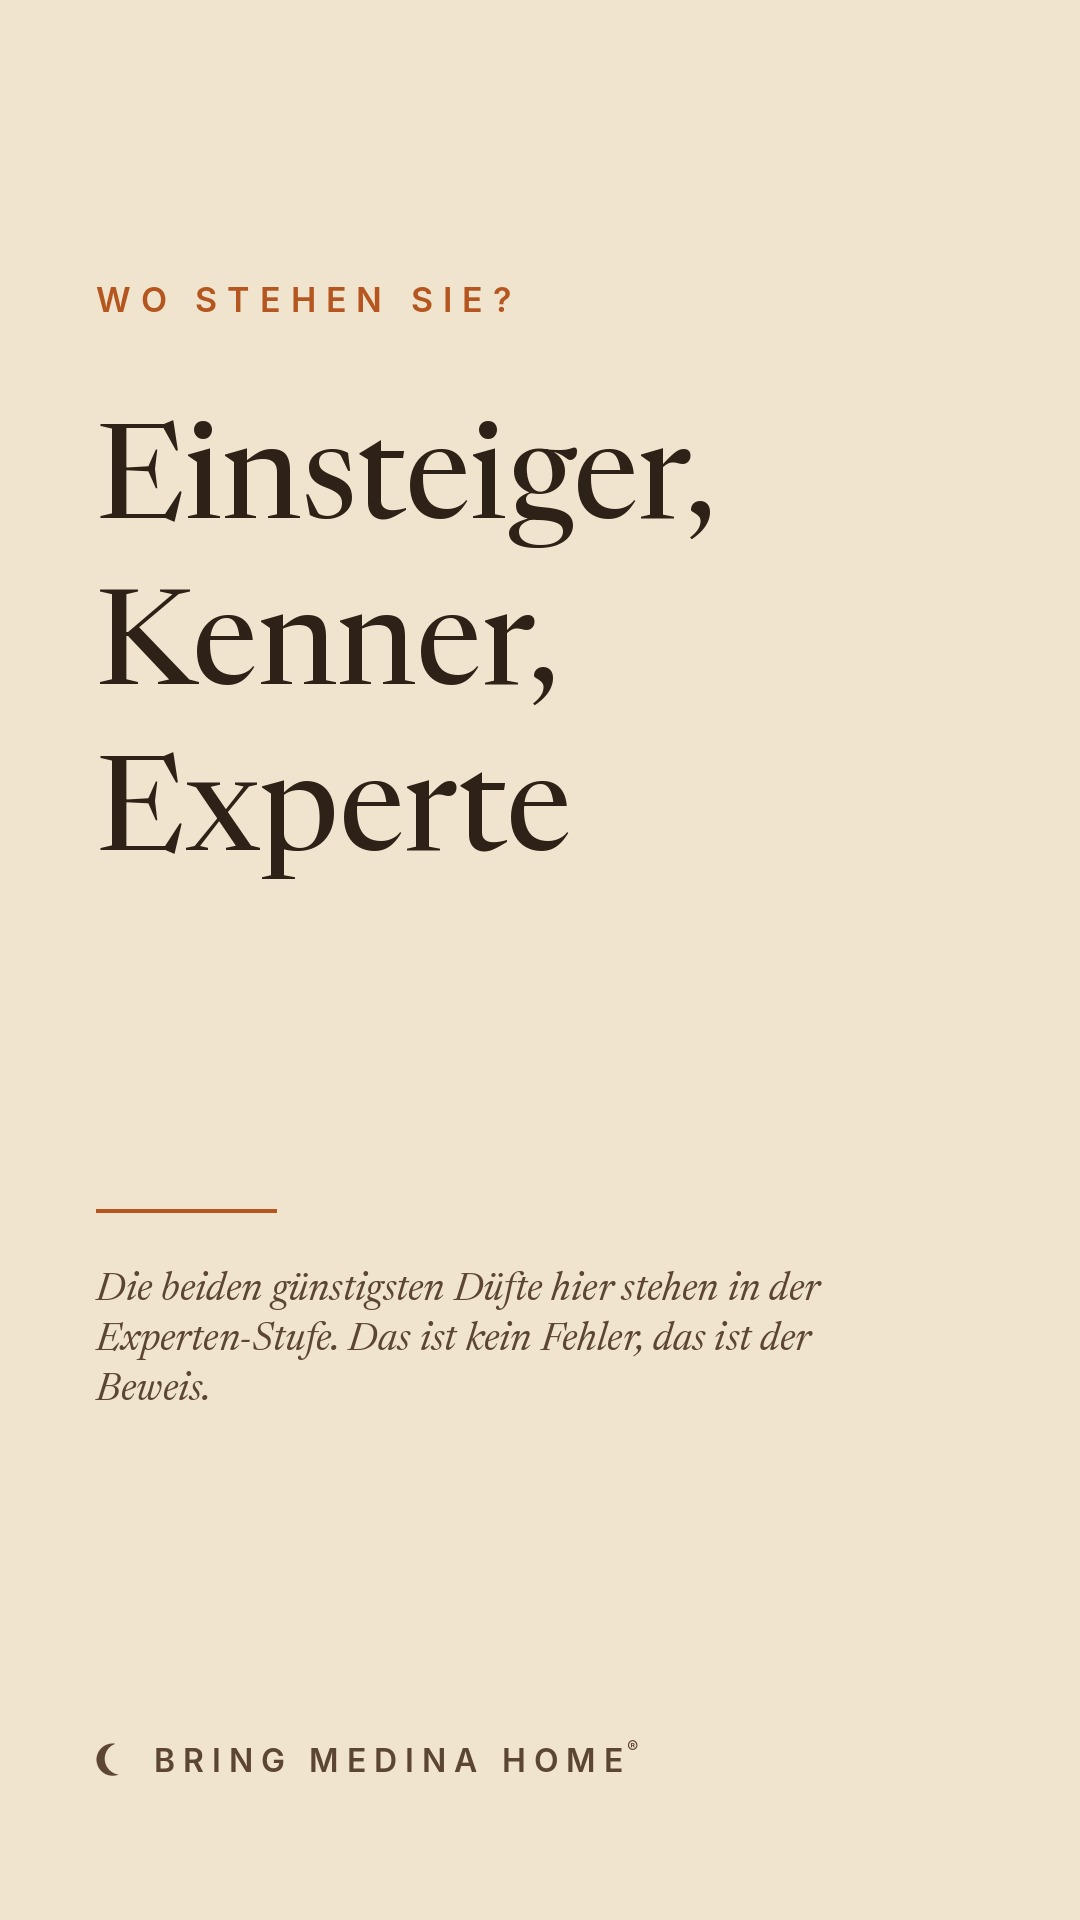
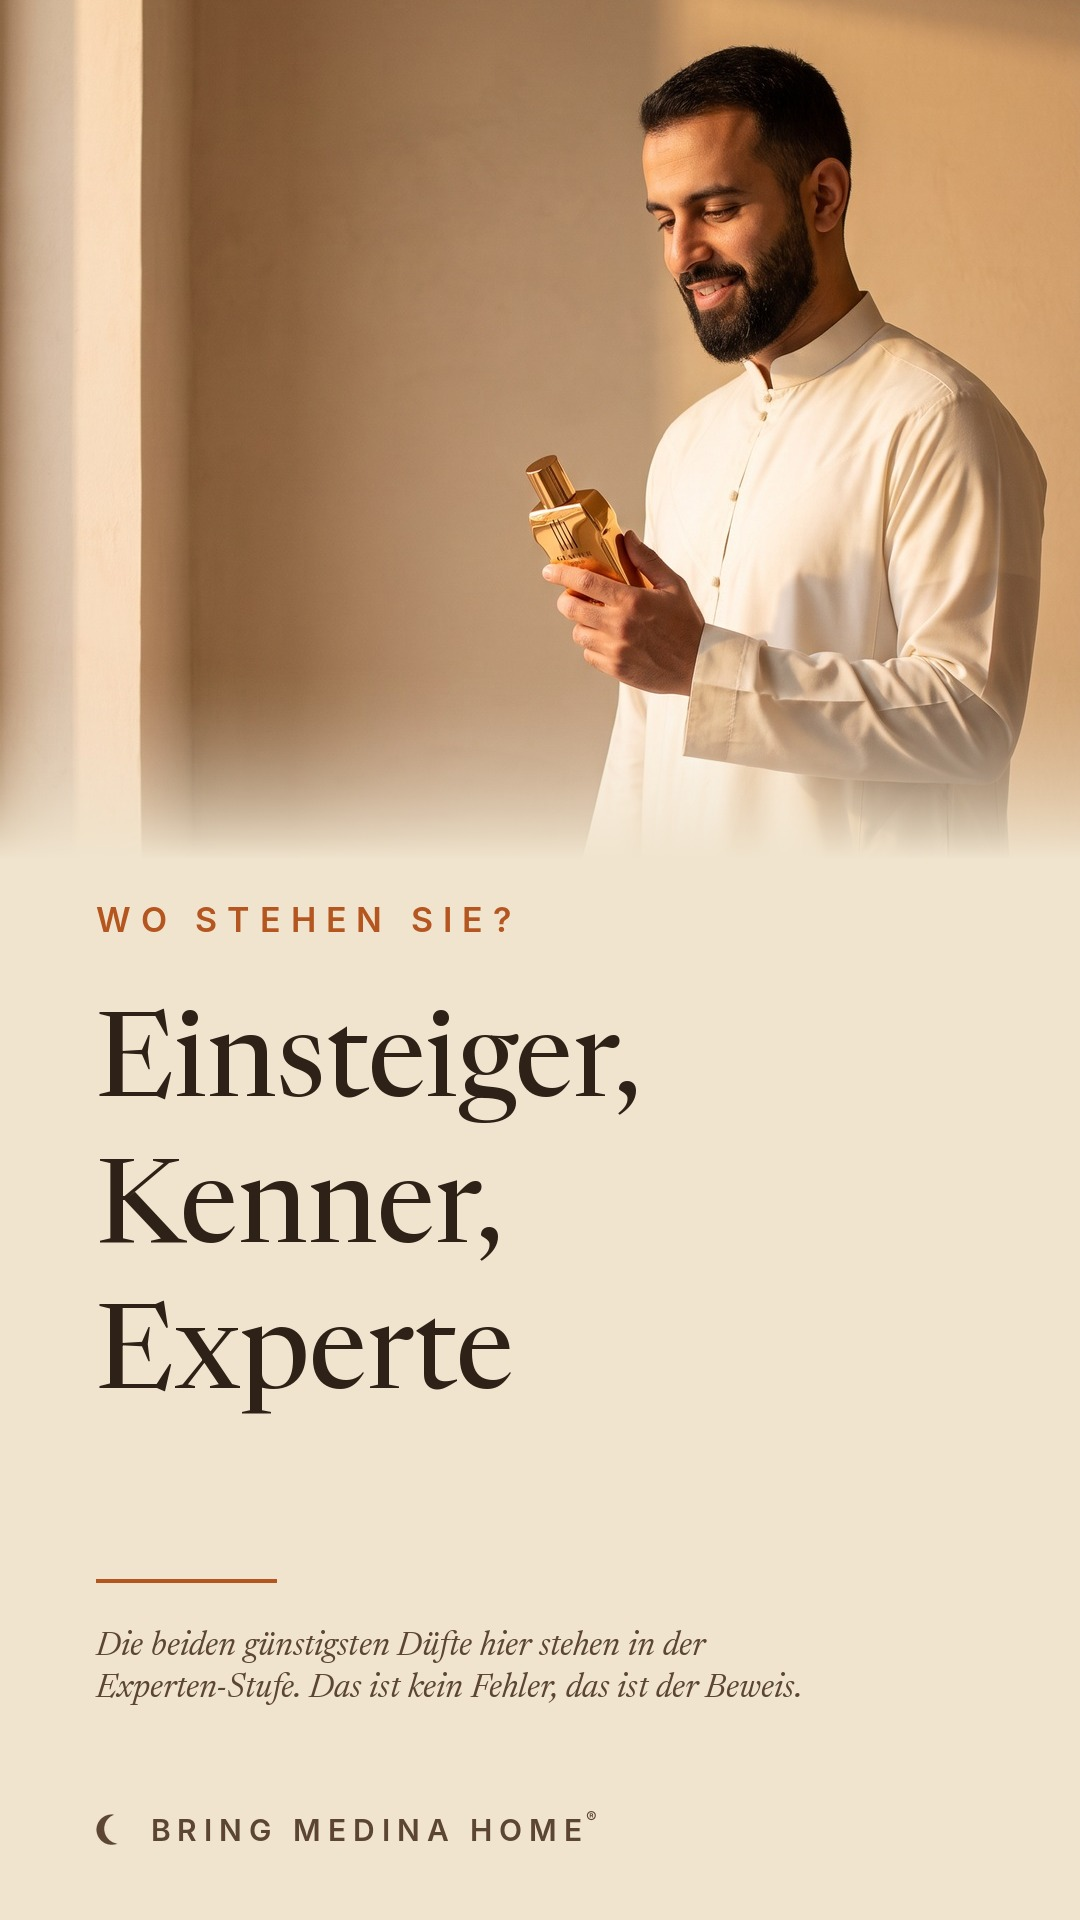
Carrousel du 14/11 : les deux images de Claude Code integrees
Couverture : bandeau haut de 860 px a partir du decalage 300, ce qui garde
le visage (source y 350-660) et le flacon en main (y 750-890) et s arrete
avant les flacons de la table, que le fondu aurait manges.

Fermeture : bandeau bas de 1060 px au decalage 860, les trois flacons
(y 965-1565) entiers. SANS FONDU, et c est voulu : fondu() va du
transparent vers le creme en DESCENDANT, donc sur un bandeau bas il
voilerait le haut des bouchons dores. La coupe tombe sur le mur nu.

Corrige : le lien shop.bringmedinahome.com etait a y 850, pile sur la
couture de la photo, ocre sur photo, illisible. Remonte a 772, avec une
assertion qui refuse de construire s il mord a nouveau sur l image.
Verifie par la mesure dans les quatre langues : fond de la ligne du lien a
223,5 de luminosite, c est le creme.

Claude-Session: https://claude.ai/code/session_01WRuYh1Ti56z8AmDfbamWmu

diff --git a/carrousels/niveaux14novembre/carrousel.py b/carrousels/niveaux14novembre/carrousel.py
@@ -432,15 +432,32 @@ def fond(lg):
     return img, ImageDraw.Draw(img)
 
 
+# Les deux images de Claude Code, livrees le 13/11 a 20h40. Il a mesure les
+# positions dans le journal, je m en sers pour choisir les decalages :
+#   niveaux1  — tete y 350-660, flacon en main y 750-890, flacons de table
+#               y 1350-1570
+#   niveaux10 — flacons y 965-1565, mur nu au-dessus
+# Le bandeau de la couverture s arrete AVANT les flacons de la table : on
+# garde le visage et le flacon en main, le reste serait coupe par le fondu.
+HAUT_1 = 860          # hauteur du bandeau de couverture
+DEC_1 = 300           # on entre dans l image juste au-dessus de la tete
+HAUT_10 = 1060        # le bandeau du bas, qui contient les trois flacons
+DEC_10 = 860          # 965 - 105 : un peu d air au-dessus des bouchons
+
+
 def diapo_1(lg):
-    img, d = fond(lg)
-    lettrage(d, 300, TITRES["ou"][lg].upper(), inter(34, "SemiBold"), OCRE, 10)
-    bloc_ajuste(d, MARGE_G, 420, TITRES["couverture"][lg].split("\n"),
-                132, ENCRE, LARGE, 1120)
-    d.line([(MARGE_G, 1210), (MARGE_G + 180, 1210)], fill=OCRE, width=4)
-    bloc(d, MARGE_G, 1270, TITRES["regle_s"][lg], serif(40, 400, 40, True),
+    img = Image.new("RGB", (W, H), CREME)
+    img.paste(photo("niveaux1.jpg", HAUT_1, DEC_1), (0, 0))
+    fondu(img, HAUT_1 - 200, 200)
+    d = ImageDraw.Draw(img)
+    lettrage(d, HAUT_1 + 60, TITRES["ou"][lg].upper(), inter(34, "SemiBold"),
+             OCRE, 10)
+    bloc_ajuste(d, MARGE_G, HAUT_1 + 150, TITRES["couverture"][lg].split("\n"),
+                116, ENCRE, LARGE, 1520)
+    d.line([(MARGE_G, 1580), (MARGE_G + 180, 1580)], fill=OCRE, width=4)
+    bloc(d, MARGE_G, 1630, TITRES["regle_s"][lg], serif(34, 400, 34, True),
          ENCRE_D, LARGE)
-    poser_signature(img, MARGE_G, 1760, ENCRE_D, 32, 8)
+    poser_signature(img, MARGE_G, 1830, ENCRE_D, 30, 7)
     return img
 
 
@@ -523,14 +540,24 @@ def diapo_preuve(lg):
 
 
 def diapo_fin(lg):
-    img, d = fond(lg)
-    bloc_ajuste(d, MARGE_G, 520, TITRES["fin_t"][lg].split("\n"),
-                110, ENCRE, LARGE, 900)
-    d.line([(MARGE_G, 980), (MARGE_G + 180, 980)], fill=OCRE, width=4)
-    bloc(d, MARGE_G, 1040, TITRES["fin_s"][lg], serif(44, 400, 44, True),
+    img = Image.new("RGB", (W, H), CREME)
+    img.paste(photo("niveaux10.jpg", HAUT_10, DEC_10), (0, H - HAUT_10))
+    # PAS DE FONDU ICI, et c est voulu. fondu() va du transparent vers le
+    # creme EN DESCENDANT : sur un bandeau bas il voilerait le haut des
+    # flacons, dont les bouchons dores commencent 105 px sous la couture.
+    # Le haut du bandeau tombe sur le mur nu de l image, donc la coupe
+    # franche se lit comme un choix et non comme un accident.
+    d = ImageDraw.Draw(img)
+    bloc_ajuste(d, MARGE_G, 280, TITRES["fin_t"][lg].split("\n"),
+                104, ENCRE, LARGE, 560)
+    d.line([(MARGE_G, 620), (MARGE_G + 180, 620)], fill=OCRE, width=4)
+    bloc(d, MARGE_G, 670, TITRES["fin_s"][lg], serif(40, 400, 40, True),
          ENCRE_D, LARGE)
-    d.text((MARGE_G, 1340), LIEN, font=inter(40, "SemiBold"), fill=OCRE)
-    poser_signature(img, MARGE_G, 1760, ENCRE_D, 32, 8)
+    # Le lien doit finir AVANT la couture de la photo (y = H - HAUT_10 = 860).
+    # A 850 il tombait pile dessus et devenait illisible : ocre sur photo.
+    d.text((MARGE_G, 772), LIEN, font=inter(38, "SemiBold"), fill=OCRE)
+    assert 772 + 46 < H - HAUT_10, "le lien mord sur la photo"
+    poser_signature(img, MARGE_G, 120, ENCRE_D, 30, 7)
     return img
 
 
